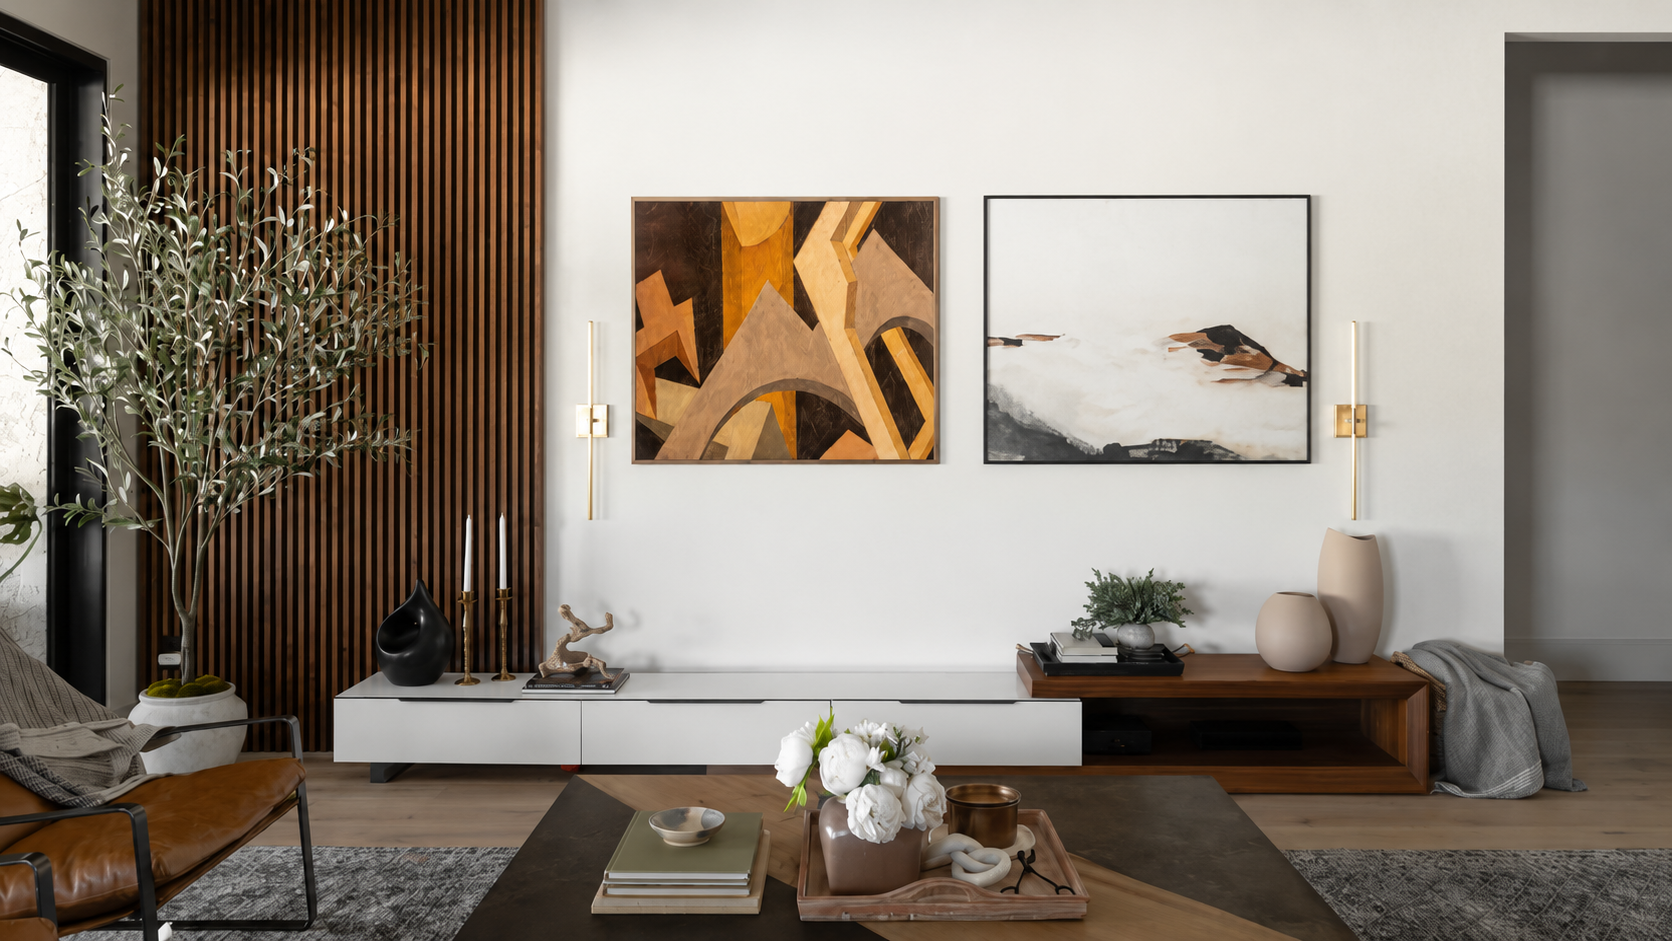
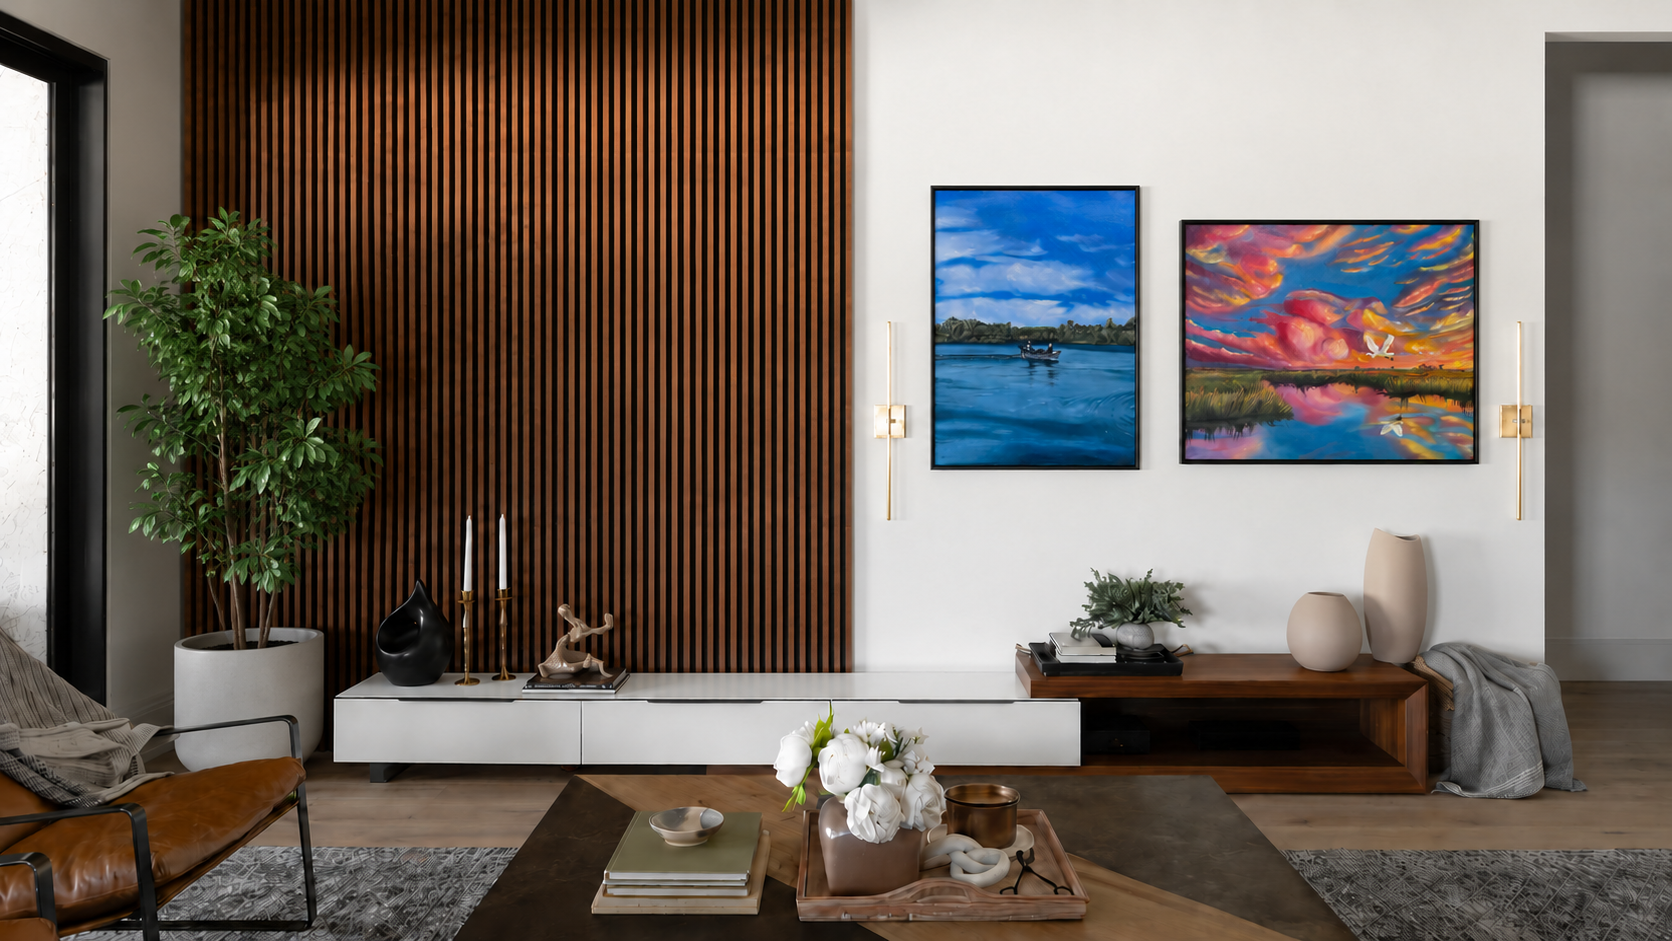
updated hero wall and bug fix

diff --git a/src/components/artwork-gallery.tsx b/src/components/artwork-gallery.tsx
@@ -13,9 +13,20 @@ export function ArtworkGallery({ images, badge }: Props) {
   const [activeIndex, setActiveIndex] = useState(0);
   const active = images[activeIndex] ?? images[0];
 
+  // Use the painting's true aspect ratio so landscape pieces show wide and
+  // portrait pieces show tall — never cropped. Fall back to 4/5 if we don't
+  // have dimensions for this image.
+  const aspect =
+    active && active.width && active.height
+      ? `${active.width} / ${active.height}`
+      : "4 / 5";
+
   return (
-    <div className="w-full max-w-[420px] justify-self-center lg:justify-self-end">
-      <div className="relative aspect-[4/5] bg-cream-soft">
+    <div className="w-full max-w-[480px] justify-self-center lg:justify-self-end">
+      <div
+        className="relative bg-cream-soft w-full"
+        style={{ aspectRatio: aspect }}
+      >
         <div className="absolute -inset-2 border border-gold/30" aria-hidden />
         {active && (
           <Image
@@ -23,8 +34,8 @@ export function ArtworkGallery({ images, badge }: Props) {
             alt={active.alt}
             fill
             priority
-            sizes="(min-width: 1024px) 35vw, 90vw"
-            className="object-cover"
+            sizes="(min-width: 1024px) 40vw, 90vw"
+            className="object-contain"
           />
         )}
         {badge}
@@ -41,7 +52,7 @@ export function ArtworkGallery({ images, badge }: Props) {
                   onClick={() => setActiveIndex(idx)}
                   aria-label={`Show image ${idx + 1}`}
                   aria-current={isActive}
-                  className={`relative block w-full aspect-[4/5] overflow-hidden transition-opacity ${
+                  className={`relative block w-full aspect-square overflow-hidden bg-cream-soft p-1 transition-opacity ${
                     isActive
                       ? "outline outline-2 outline-navy outline-offset-2"
                       : "opacity-70 hover:opacity-100"
@@ -52,7 +63,7 @@ export function ArtworkGallery({ images, badge }: Props) {
                     alt=""
                     fill
                     sizes="120px"
-                    className="object-cover"
+                    className="object-contain"
                   />
                 </button>
               </li>

diff --git a/src/components/artwork-card.tsx b/src/components/artwork-card.tsx
@@ -6,20 +6,33 @@ import { formatPrice } from "@/lib/format";
 export function ArtworkCard({ artwork }: { artwork: Artwork }) {
   const isSold = artwork.status === "sold";
   const isReserved = artwork.status === "reserved";
+  const secondImage = artwork.images[1];
 
   return (
     <Link
       href={`/art/${artwork.slug}`}
       className="group block"
     >
-      <div className="relative aspect-[4/5] overflow-hidden bg-cream-soft">
+      <div className="relative aspect-[4/5] overflow-hidden bg-cream-soft p-3 sm:p-4">
         <Image
           src={artwork.imageUrl}
           alt={artwork.title}
           fill
           sizes="(min-width: 1024px) 30vw, (min-width: 640px) 45vw, 90vw"
-          className="object-cover transition-transform duration-700 group-hover:scale-[1.03]"
+          className={`object-contain transition-all duration-500 group-hover:scale-[1.03] ${
+            secondImage ? "group-hover:opacity-0" : ""
+          }`}
         />
+        {secondImage && (
+          <Image
+            src={secondImage.url}
+            alt=""
+            aria-hidden
+            fill
+            sizes="(min-width: 1024px) 30vw, (min-width: 640px) 45vw, 90vw"
+            className="object-contain opacity-0 transition-all duration-500 group-hover:opacity-100 group-hover:scale-[1.03]"
+          />
+        )}
         {isSold && (
           <span className="absolute top-3 left-3 px-2.5 py-1 text-[10px] uppercase tracking-[0.2em] bg-[#7f1d1d] text-cream">
             Sold

diff --git a/src/lib/artworks.ts b/src/lib/artworks.ts
@@ -34,6 +34,8 @@ type ArtworkWithImages = {
     alt: string;
     is_primary: boolean;
     position: number;
+    width: number | null;
+    height: number | null;
   }[];
 };
 
@@ -45,6 +47,11 @@ function toArtwork(row: ArtworkWithImages): Artwork {
   const ordered = primary
     ? [primary, ...sorted.filter((i) => i !== primary)]
     : sorted;
+
+  const primaryAspect =
+    primary && primary.width && primary.height
+      ? primary.width / primary.height
+      : null;
 
   return {
     id: row.id,
@@ -58,16 +65,19 @@ function toArtwork(row: ArtworkWithImages): Artwork {
     imageUrl: primary
       ? imageUrlFromPublicId(primary.cloudinary_public_id)
       : `https://picsum.photos/seed/${row.slug}/800/1000`,
+    primaryAspect,
     images: ordered.map((i) => ({
       url: imageUrlFromPublicId(i.cloudinary_public_id),
       alt: i.alt || row.title,
+      width: i.width,
+      height: i.height,
     })),
     description: row.description,
   };
 }
 
 const ARTWORK_COLUMNS =
-  "id, slug, title, year, medium, dimensions, price_pence, status, description, position, artwork_images(cloudinary_public_id, alt, is_primary, position)";
+  "id, slug, title, year, medium, dimensions, price_pence, status, description, position, artwork_images(cloudinary_public_id, alt, is_primary, position, width, height)";
 
 export async function getAllArtworks(): Promise<Artwork[]> {
   const { data, error } = await supabaseServer

diff --git a/src/lib/artwork-types.ts b/src/lib/artwork-types.ts
@@ -3,6 +3,8 @@ export type ArtworkStatus = "available" | "reserved" | "sold";
 export type ArtworkImage = {
   url: string;
   alt: string;
+  width: number | null;
+  height: number | null;
 };
 
 export type Artwork = {
@@ -15,6 +17,8 @@ export type Artwork = {
   price: number;
   status: ArtworkStatus;
   imageUrl: string;
+  // Aspect ratio of the primary image (width/height), if known.
+  primaryAspect: number | null;
   images: ArtworkImage[];
   description: string;
 };
